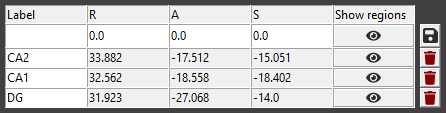
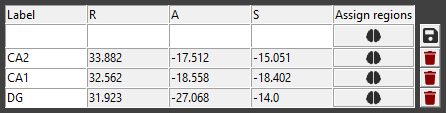
Update screenshots and tutorial

diff --git a/docs/extra.css b/docs/extra.css
@@ -9,21 +9,6 @@ div.autodoc-members {
   margin-bottom: 15px;
 }
 
-img[alt="snippet"] {
-  width: 40%;
-  display: block;
-  margin-left: auto;
-  margin-right: auto;
-}
-
-img[alt="screenshot"] {
-  width: 75%;
-  display: block;
-  margin-left: auto;
-  margin-right: auto;
-
-}
-
 img[alt="logo"] {
     height: 50px;
     margin-left: 20px;
@@ -48,6 +33,12 @@ img[alt="gif"] {
     display: block;
     margin-left: auto;
     margin-right: auto;
+}
+
+img[alt="image_centered"] {
+  display: block;
+  margin-left: auto;
+  margin-right: auto;
 }
 
 table img

diff --git a/docs/tutorial.md b/docs/tutorial.md
@@ -1,22 +1,71 @@
 # Step-by-step example
 
-In this tutorial, you will warp an example MRI scan to MNI ICBM 152 2009c Nonlinear Asymmetric space and assign a region to a point in the input space. For this example, we use a NIfTI file from the publicly available [NFBS Skull-Stripped Repository](http://preprocessed-connectomes-project.org/NFB_skullstripped/). We choose the T1-weighted MRI scan `sub-A00028185_ses-NFB3_T1w.nii.gz` of subject `A00028185`.
+In this tutorial, you will warp an example MRI scan to [MNI ICBM 152 2009c Nonlinear Asymmetric space]((https://www.bic.mni.mcgill.ca/ServicesAtlases/ICBM152NLin2009)) and analyze a point of the input space in the detailed anatomical context of the [EBRAINS Human Brain Atlas]((https://www.ebrains.eu/tools/human-brain-atlas)). 
 
-<span style="color:red">**TODO** Update screenshot</span>  
+## Get the example dataset
 
-1. Download the NFBS skull-stripped images from [here](http://preprocessed-connectomes-project.org/NFB_skullstripped/).
-1. Unpack the .tar.gz archive.
-1. Choose `<path_to_dataset>/NFBS_Dataset/A00028185/sub-A00028185_ses-NFB3_T1w.nii.gz` as <mark>Input NIfTI</mark>.  
+Let's start the tutorial by downloading an example dataset. We use a sample from the publicly available [NFBS Skull-Stripped Repository](http://preprocessed-connectomes-project.org/NFB_skullstripped/) and choose the T1-weighted MRI scan `sub-A00028185_ses-NFB3_T1w.nii.gz` of subject `A00028185`. This scan contains the subject's whole brain including the skull. 
+
+* Download the NFBS skull-stripped images from [here](http://preprocessed-connectomes-project.org/NFB_skullstripped/).
+* Unpack the .tar.gz archive.
+
+    ![image](images/dataset.png)
+<br/><br/>
+
+## Warp the MRI scan to MNI152 space
+
+To be able to perform an analysis in the anatomical context of the atlas we first need to register the input MRI scan to the standardized MNI152 space.
+
+* Launch _voluba-mriwarp_
+* Choose `<path_to_dataset>/NFBS_Dataset/A00028185/sub-A00028185_ses-NFB3_T1w.nii.gz` as <mark>Input NIfTI</mark>.  
 You can choose this file from the file explorer by clicking <mark>...</mark>.
-1. Leave the <mark>Output folder</mark> at the default location `<path_to_your_home>/voluba-mriwarp`.
-1. Click <mark>Warp input to MNI152 space</mark> to warp the brain of the subject to MNI ICBM 152 2009c Nonlinear Asymmetric space. The progress bar indicates that the calculation is still running. When the registration is finished, a green checkmark will appear next to the button.  
+* Set the <mark>Output folder</mark> to the directory where you want the warping results to be saved. We keep the default location `<path_to_your_home>/voluba-mriwarp`.
+    
+    ![image](images/tutorial_inout.png)
+<br/><br/>
 
-<span style="color:red">**TODO** Add switching to Region assignment tab</span>  
+* Click <mark>Warp input to MNI152 space</mark> to warp the brain of the subject to MNI152 space using the default registration method. This method is relatively fast but less accurate than the [advanced version](../warping/#advanced-settings). The progress bar indicates that the calculation is still running. When the registration is finished, a green checkmark will appear next to each step performed.
 
-1. Double-click a location in the input space to assign brain regions to it. We select a point in the visual cortex. In the side panel on the left every listed region is indeed part of the visual cortex.
+    ![image](images/tutorial_warping2.png)
 
-    ![image](images/tutorial.png)
+## Analyze a point in the atlas context
 
-1. Click <mark>:fa-external-link:</mark> to get more details about a specific region in siibra-explorer. We choose the most probable brain region for this point, which is Area hOc1 (V1, 17, CalcS) left.
+After successful warping _voluba-mriwarp_ can now use the resulting transformation to warp points of the input MRI scan to MNI152 space. In this way, it can assign brain regions of the EBRAINS Human Atlas to these points through the siibra toolsuite. 
+
+* Switch to the <mark>Analysis</mark> tab.
+* Keep the setting for <mark>Input already in MNI152 space</mark> as the example MRI scan shows the subject in input space and not in MNI152 space.
+* Leave the parcellation as is because we want to assign the point to brain regions of the `Julich-Brain Cytoarchitectonic Atlas (v3.0)`.
+* Set the <mark>Point uncertainty</mark> to 3 mm. The reason for this is that coordinates are typically not exact but have several millimeters of uncertainty (especially after warping).
+    
+    ![image](images/tutorial_settings.png)
+<br/><br/>
+
+* Select a point by either clicking a location in the interactive viewer or entering the coordinates into the first row of the <mark>Points</mark> table. We select the point `(15.89, -71.81, -4.03)` in the visual cortex of the left hemisphere. If you would like to use the same point we recommend adding it via the table.
+* Click on the brain icon in the table to start the probabilistic region assignment.
+
+    ![image](images/tutorial_points.png)
+<br/><br/>
+
+* You should soon see the results of the anatomical assignment at the bottom of the side panel. As we specified a point uncertainty [different measures](../analysis/#results-of-the-analysis) for each assigned region are shown. Indeed, the region that correlates most with the selected point is **Area hOc1 (V1, 17, CalcS) left** which is part of the visual system.
+    
+    ![image](images/tutorial_assignment2.png)
+<br/><br/>
+
+## Use the results
+
+* Double-click a row in the table to open the according region in a browser window in siibra-explorer. This allows you to get a quick overview of more details about an assigned region and linked multimodal data features. 
 
     ![image](images/hOc1.png)
+<br/><br/>
+
+* Click on the save button next to the brain icon to note the point for export and thus retain your analysis performed with _voluba-mriwarp_.
+* Click ![icon](images/tutorial_export_btn.png) next to <mark>Points</mark> to export your analysis to a PDF report for all saved points. 
+* Keep the <mark>PDF location</mark> as is to save the PDF to the output folder. If you would like to choose a different location, click on <mark>...</mark> to select a folder and filename.
+* Set the filter to `input containedness >= 0.5` as we are only interested in regions in which the saved point is likely contained. This will only include brain regions to the report that fulfill the requirement for the assignment. 
+* Choose between different multimodal data features that complement your analysis. We are interested in cell densities, connectivity and receptor densities. For receptor density you need to select specific receptors and for connectivity a cohort is required. For this tutorial, we choose `GABAA` and `GABAB` as well as the `1000BRAINS` study.
+* Use the <mark>Export</mark> button to initialize the creation of the PDF report.
+
+    ![image](images/tutorial_export.png)
+<br/><br/>
+
+**Congratulations, you finished the tutorial!**

diff --git a/docs/analysis.md b/docs/analysis.md
@@ -23,8 +23,8 @@ The [General settings](#general-settings) allow you to adjust the details of the
 ![icon](images/5.png) **Select a point in subject's space to analyze it**.  
 There are two ways to choose points. In the [interactive viewer](#viewer) you can select a point by double clicking a location in the input scan. Secondly, you can manually type in a coordinate in the first row of the <mark>Points</mark> table. _voluba-mriwarp_ will then assign brain regions to this point and display the results in the side panel. For more information about the tables, see the section on [Point selection](#point-selection) and [Results of the analysis](#results-of-the-analysis).
 
-![icon](images/6.png) **View more details about a specific region in siibra-explorer.**  
-Double click a row in the assignment table to get more information about the brain region in [siibra-explorer](https://atlases.ebrains.eu/viewer/human). Interactively explore brain connectivity and multimodal data features like transmitter receptor densities, cell distributions, and physiological recordings linked to this area.
+![icon](images/6.png) **Get a quick overview about a specific region in siibra-explorer.**  
+Double click a row in the assignment table to quickly view more information about the brain region in [siibra-explorer](https://atlases.ebrains.eu/viewer/human). Interactively explore brain connectivity and multimodal data features like transmitter receptor densities, cell distributions, and physiological recordings linked to this area.
 
 ![icon](images/7.png) **Export a PDF report.**  
 To retain your analysis _voluba-mriwarp_ offers to create a PDF report of the anatomical assignments which can optionally be extended with linked data features (e.g. cell density, receptor density or connectivity) of your choice.
@@ -48,7 +48,7 @@ In the advanced settings you can specify a particular transformation file that i
 
 All points shown in _voluba-mriwarp_ are given in RAS physical space. To select a location, you can either double-click the according position in the interactive viewer or manually type in the coordinates in the first row of the `Points` table.
 
-![screenshot](images/points.png)
+![image_centered](images/points.png)
 
 The <Points> table holds the currently selected point as well as all points that were saved. You can inspect and reassign regions to these points again at any time. Furthermore, the export functionality will include all saved points in the PDF report. The currently selected point can be saved to the table by clicking the floppy disk icon. _voluba-mriwap_ will automatically generate a label for each saved point by counting. To give meaning to a point, you can specify and adjust its name in the <mark>Label</mark> column. A saved point can be removed from the table by clicking the trash icon. If you want to repeat the assignment for a point again, click the brain icon in the row of the according location.
 
@@ -62,9 +62,9 @@ After selecting a point you can find a table presenting the results of the point
 | map value | probability value of the region in the parcellation map |
 | correlation* | correlation coefficient |
 | intersection over union* | intersection over union |
-| map weighted mean* | weighted average of the map values over the blob |
+| map weighted mean* | mean of the blob weighted by the map values |
 | map containedness* | containness score of the region wrt. the blob |
-| input weighted mean* | ? |
+| input weighted mean* | mean of the map values weighted by the blob |
 | input containedness* | containedness score of the blob wrt. the region |
 
 Per default, values are sorted by correlation. To sort for a different measure click on the corresponding column header in the table.
@@ -75,4 +75,4 @@ _voluba-mriwarp_ offers to create a PDF report of anatomical assignments for all
 
 You are then asked to specify the export location for the PDF which initially points to the directory of <mark>Output folder</mark>. Following this you can define a filter which restricts to regions that fulfill the given requirement. For example, for each point only regions assigned with correlation > 0.3 are included in the report by default. In the last section you can finally choose between different multimodal data features complementing your existing analysis. In case you are interested in receptor density, you will need to select specific receptors that will be investigated. For connectivity features an additional selection of a cohort is required. Clicking on <mark>Export</mark> initiates the export procedure.
 
-# TODO screenshot of export dialog
+![image_centered](images/export.png)

diff --git a/docs/index.md b/docs/index.md
@@ -15,6 +15,6 @@ Warping brain data to a standardized space like MNI152 enables anchoring of whol
 
 _voluba-mriwarp_ applies a set of predefined parameters to remove the skull and warp the input brain scan to MNI152 space. You can utilize the warping results in _voluba-mriwarp_ to interactively make a probabilistic assignment of coordinates in the input space to brain regions of the [EBRAINS Human Brain Atlas](https://www.ebrains.eu/tools/human-brain-atlas). Hence, you can estimate the probability of a brain region occurring at the selected coordinate. To explore even more information about a cytoarchitectonic area, you can access [siibra-explorer](https://atlases.ebrains.eu/viewer/human) through the application.
 
-![image](images/teaser2.png)
+![image_centered](images/teaser2.png)
 
 [^1]: Isensee F, Schell M, Tursunova I, Brugnara G, Bonekamp D, Neuberger U, Wick A, Schlemmer HP, Heiland S, Wick W, Bendszus M, Maier-Hein KH, Kickingereder P. Automated brain extraction of multi-sequence MRI using artificial neural networks. Hum Brain Mapp. 2019; 1–13. [https://doi.org/10.1002/hbm.24750](https://doi.org/10.1002/hbm.24750)

diff --git a/docs/workflow.md b/docs/workflow.md
@@ -10,7 +10,8 @@ The general workflow for _voluba-mriwarp_ can be summarized as follows:
 ![icon](images/1.png) Choose an **input MRI scan**.  
 ![icon](images/2.png) Choose an **output folder** for the warping results.  
 ![icon](images/3.png) **Warp** the input MRI to MNI152 space.  
-![icon](images/4.png) **Click or enter a coordinate** to make a probabilistic region assignment.  
-![icon](images/5.png) **View more details** about a specific region in [siibra-explorer](https://atlases.ebrains.eu/viewer/go/human).
+![icon](images/4.png) **Click or enter a coordinate** to perform an analysis in the atlas context.  
+![icon](images/5.png) Get a **more detailed overview** about a specific region in [siibra-explorer](https://atlases.ebrains.eu/viewer/go/human).  
+![icon](images/6.png) **Export** assigned regions together with linked data features to a PDF report for extended analysis.
 
-![image](images/workflow4.png)
+![image_centered](images/workflow4.png)

diff --git a/docs/viewer.md b/docs/viewer.md
@@ -2,7 +2,7 @@
 
 Initially, the viewer displays the MNI152 template. To load an MRI scan into the viewer, follow this step:
 
-![image](images/data_menu.png)
+![image_centered](images/data_menu.png)
 
 ![icon](images/1.png) **Select the input MRI scan to inspect.**  
 The <mark>Input NIfTI</mark> has to be in NIfTI format (.nii or .nii.gz) and has to contain the whole brain of the subject. You can either manually type in the path to the file or you can choose the input MRI scan in the file explorer by clicking <mark>...</mark>.

diff --git a/docs/video_tutorial.md b/docs/video_tutorial.md
@@ -1,10 +1,3 @@
 # Video tutorial
 
-<span style="color:red">**TODO** Update video snippets</span>  
-
-This tutorial shows the functionalities of _voluba-mriwarp_ with an example dataset. Note, that paths may differ on you computer.
-
-<video style="height: 20.5vw" controls="">
-    <source src="../gifs/mriwarp_demo.mp4" type="video/mp4">
-</video>
-<br>
+Coming soon ...
